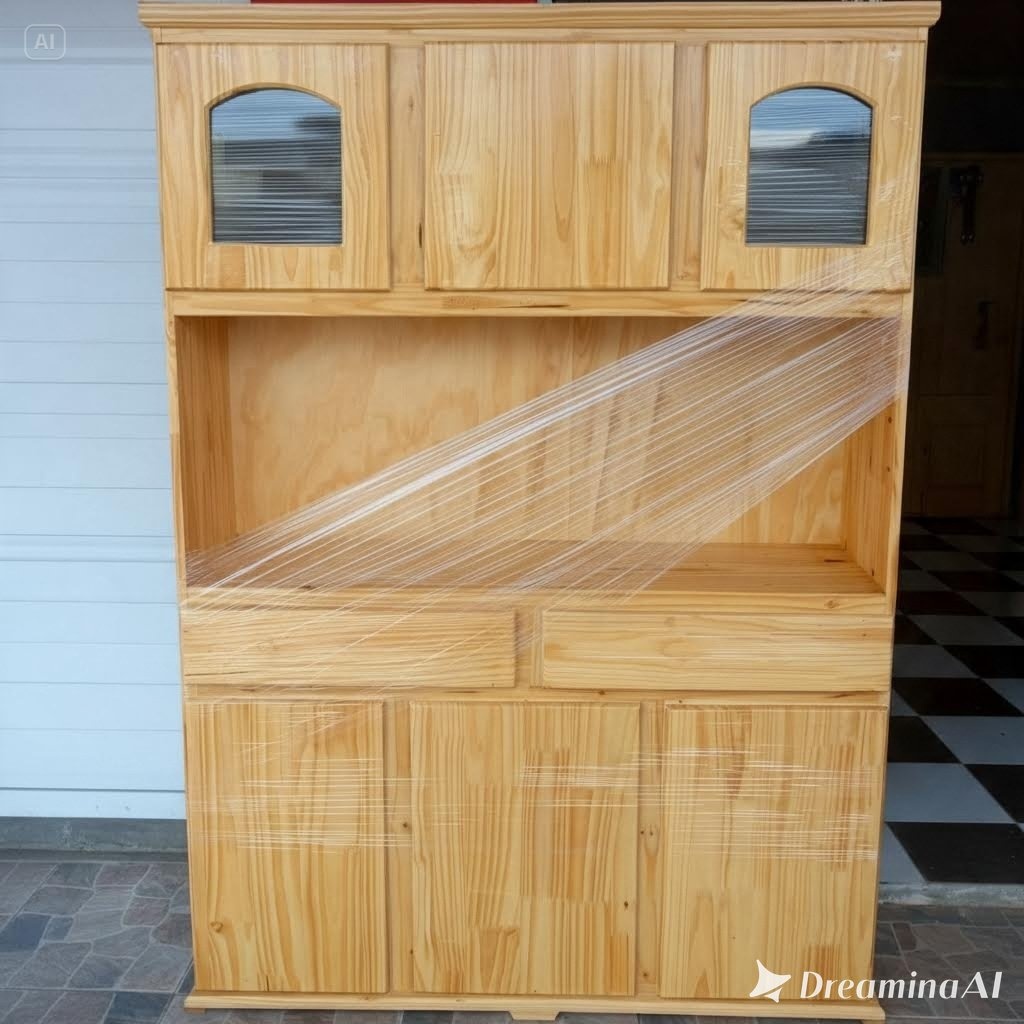
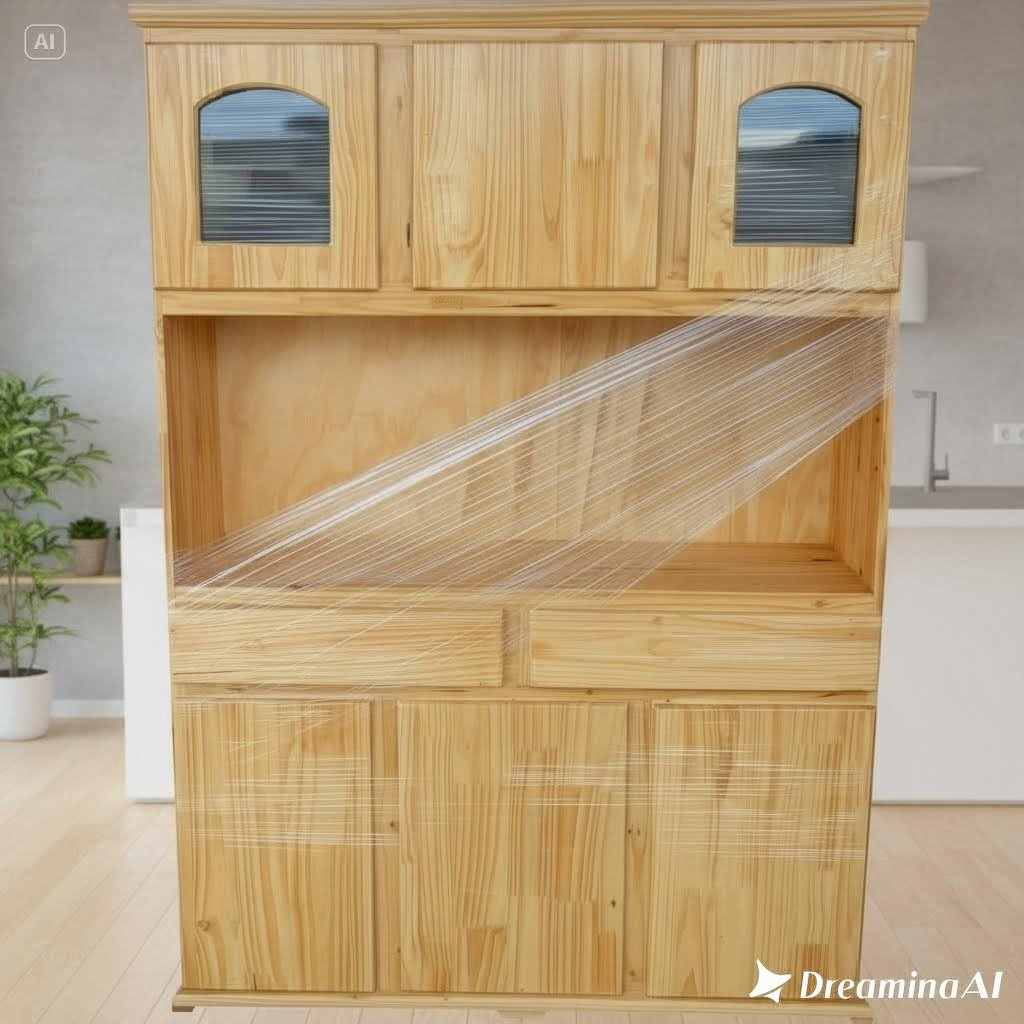
oficina

diff --git a/oficina-hogar.html b/oficina-hogar.html
@@ -1,5 +1,185 @@
-<!DOCTYPE html><html lang="es"><head><meta charset="UTF-8"><meta name="viewport" content="width=device-width, initial-scale=1"><title>Oficina y hogar | Servi Muebles</title><link rel="preconnect" href="https://fonts.googleapis.com"><link href="https://fonts.googleapis.com/css2?family=DM+Sans:wght@400;500;600;700&family=Playfair+Display:wght@600;700&display=swap" rel="stylesheet"><link rel="stylesheet" href="styles.css"></head><body><header class="header"><a href="index.html" class="brand"><img src="img/logo.svg" alt="Servi Muebles"></a><button class="burger" aria-label="Abrir menú" aria-expanded="false"><span></span><span></span><span></span></button><nav class="nav"><a href="index.html">Inicio</a><a class="on" href="categorias.html">Categorías</a><a href="ofertas.html">Ofertas</a><a href="nosotros.html">Nosotros</a><a href="contacto.html">Contacto</a><a href="faq.html">Preguntas</a></nav></header><main><section class="page-hero"><span class="crumb">Colección 03 · Categorías</span><h1>Oficina y hogar</h1><p>Diseño que te ayuda a concentrarte, crear y disfrutar tu tiempo en casa.</p></section><section class="sec"><div class="page-content"><div class="detail-grid"><article class="detail-card reveal" data-name="Escritorios"><img src="https://images.unsplash.com/photo-1497366811353-6870744d04b2?auto=format&fit=crop&w=1000&q=85" alt="Escritorio de oficina"><div><h3>Escritorios</h3><p>Superficies amplias para que las ideas tengan lugar.</p><button class="btn ask" type="button">Consultar <span>↗</span></button>
-              </div></article><article class="detail-card reveal" data-name="Sillas y confort"><img src="https://images.unsplash.com/photo-1556761175-b413da4baf72?auto=format&fit=crop&w=1000&q=85" alt="Sillas para oficina"><div><h3>Sillas y confort</h3><p>Ergonomía y estilo para acompañar tus jornadas.</p><button class="btn ask" type="button">Consultar <span>↗</span></button>
-              </div></article><article class="detail-card reveal" data-name="Bibliotecas y guardado"><img src="https://images.unsplash.com/photo-1593476550610-87baa860004a?auto=format&fit=crop&w=1000&q=85" alt="Biblioteca en hogar"><div><h3>Bibliotecas y guardado</h3><p>Orden visible para tus objetos, libros y proyectos.</p><button class="btn ask" type="button">Consultar <span>↗</span></button>
-              </div></article></div><div class="center"><a class="btn" href="contacto.html">Consultar medidas y precios <span>↗</span></a></div></div></section></main><footer class="footer"><div class="fgrid"><div><img class="footer-logo" src="img/logo.svg" alt="Servi Muebles"><p>Diseño, calidad y calidez para cada ambiente.</p></div><div><h4>Explorá</h4><a href="index.html">Inicio</a><a href="categorias.html">Categorías</a><a href="ofertas.html">Ofertas</a></div><div><h4>Ayuda</h4><a href="contacto.html">Contacto</a><a href="faq.html">Preguntas frecuentes</a></div><div><h4>Contacto</h4><p>+54 362 455-3052</p><p>Resistencia, Chaco</p></div></div><p class="copy">© 2026 Servi Muebles. Todos los derechos reservados.</p></footer><a class="wa" id="wa" target="_blank" rel="noopener" aria-label="Escribinos por WhatsApp" data-tip="¿Hablamos?"><svg viewBox="0 0 24 24" width="29" height="29" fill="none" aria-hidden="true"><path fill="currentColor" d="M12 2a10 10 0 0 0-8.6 15.1L2 22l5-1.3A10 10 0 1 0 12 2zm5.2 14.2c-.2.6-1.3 1.2-1.8 1.2-.5.1-1 .2-3.3-.7-2.8-1.1-4.6-4-4.7-4.2-.1-.2-1.1-1.5-1.1-2.8s.7-2 1-2.2c.2-.3.5-.3.7-.3h.5c.2 0 .4 0 .6.5l.8 2c.1.2.1.3 0 .5l-.3.4-.4.5c-.1.1-.3.3-.1.6.2.3.8 1.3 1.7 2.1 1.2 1 2.1 1.3 2.4 1.5.3.1.5.1.6-.1l.9-1.1c.2-.3.4-.2.6-.1l1.9.9c.3.1.5.2.5.3.1.2.1.8-.1 1.4z"/></svg></a><button class="top" aria-label="Volver arriba">↑</button><script src="script.js"></script></body></html>
-
+<!doctype html>
+<html lang="es">
+  <head>
+    <meta charset="UTF-8" />
+    <meta name="viewport" content="width=device-width, initial-scale=1" />
+    <title>Oficina y hogar | Servi Muebles</title>
+    <link rel="preconnect" href="https://fonts.googleapis.com" />
+    <link
+      href="https://fonts.googleapis.com/css2?family=DM+Sans:wght@400;500;600;700&family=Playfair+Display:wght@600;700&display=swap"
+      rel="stylesheet"
+    />
+    <link rel="stylesheet" href="styles.css" />
+  </head>
+  <body>
+    <header class="header">
+      <a href="index.html" class="brand"
+        ><img src="img/logo.svg" alt="Servi Muebles" /></a
+      ><button class="burger" aria-label="Abrir menú" aria-expanded="false">
+        <span></span><span></span><span></span>
+      </button>
+      <nav class="nav">
+        <a href="index.html">Inicio</a
+        ><a class="on" href="categorias.html">Categorías</a
+        ><a href="ofertas.html">Ofertas</a><a href="nosotros.html">Nosotros</a
+        ><a href="contacto.html">Contacto</a><a href="faq.html">Preguntas</a>
+      </nav>
+    </header>
+    <main>
+      <section class="page-hero">
+        <span class="crumb">Colección 03 · Categorías</span>
+        <h1>Oficina y hogar</h1>
+        <p>
+          Diseño que te ayuda a concentrarte, crear y disfrutar tu tiempo en
+          casa.
+        </p>
+      </section>
+      <section class="sec">
+        <div class="page-content">
+          <div class="detail-grid">
+            <article class="detail-card reveal" data-name="Mueble Multiuso Compacto">
+              <img
+                src="./img/oficina/oficinaMultiuso.jpeg"
+                alt="Mueble Multiuso Compacto"
+              />
+              <div>
+                <h3>Mueble Multiuso Compacto</h3>
+                <p>Práctico, funcional y versátil. Su tamaño permite aprovechar al máximo los espacios, ofreciendo una solución de almacenamiento para organizar documentos, útiles, accesorios y otros objetos. ¡Perfecto para mantener todo en orden sin ocupar demasiado lugar.</p>
+                <button class="btn ask" type="button">
+                  Consultar <span>↗</span>
+                </button>
+              </div>
+            </article>
+            <article class="detail-card reveal" data-name="Mueble Multiuso Con Cajones">
+              <img
+                src="./img/oficina/oficinaMultiuso2.jpeg"
+                alt="Mueble Multiuso Con Cajones"
+              />
+              <div>
+                <h3>Mueble Multiuso Con Cajones</h3>
+                <p>Práctico, espacioso y funcional. Cuenta con varios cajones que permiten organizar documentos, accesorios y todo tipo de objetos. Su tamaño mediano ofrece mayor capacidad de almacenamiento, combinando comodidad, orden y versatilidad para cualquier ambiente.</p>
+                <button class="btn ask" type="button">
+                  Consultar <span>↗</span>
+                </button>
+              </div>
+            </article>
+            <article
+              class="detail-card reveal"
+              data-name="Muebe Multiuso Con Puertas"
+            >
+              <img
+                src="./img/oficina/oficinaMultiuso3.jpeg"
+                alt="Mueble Multiuso Con Puertas"
+              />
+              <div>
+                <h3>Mueble Multiuso Con Puertas</h3>
+                <p>Práctico, amplio y funcional. Cuenta con varias puertas que permiten guardar y organizar documentos, artículos de uso diario y otros objetos, manteniendo todo protegido y fuera de la vista. Una excelente opción para aprovechar el espacio y mantener cualquier ambiente ordenado.</p>
+                <button class="btn ask" type="button">
+                  Consultar <span>↗</span>
+                </button>
+              </div>
+            </article>
+            <article
+              class="detail-card reveal"
+              data-name="Muebe Multiuso Grande"
+            >
+              <img
+                src="./img/oficina/oficinaMultiuso4.jpeg"
+                alt="Mueble Multiuso Grande"
+              />
+              <div>
+                <h3>Mueble Multiuso Grande</h3>
+                <p>Amplio, práctico y versátil, ideal para el hogar o la oficina. Cuenta con múltiples cajones y puertas para organizar y guardar todo tipo de objetos, además de un espacio destinado para colocar televisores y dispositivos electrónicos. Su diseño funcional ofrece gran capacidad de almacenamiento, combinando organización, comodidad y estilo en un solo mueble.</p>
+                <button class="btn ask" type="button">
+                  Consultar <span>↗</span>
+                </button>
+              </div>
+            </article>
+            <article
+              class="detail-card reveal"
+              data-name="Rack Multiuso Para TV"
+            >
+              <img
+                src="./img/oficina/oficinaRack.jpeg"
+                alt="Rack Multiuso Para TV"
+              />
+              <div>
+                <h3>Rack Multiuso Para TV</h3>
+                <p>Moderno, práctico y funcional, ideal para darle estilo y organización a tu living o dormitorio. Cuenta con espacios de almacenamiento para colocar dispositivos electrónicos, accesorios y objetos decorativos. Su diseño versátil permite aprovechar mejor el espacio, combinando comodidad, orden y elegancia para tu hogar.</p>
+                <button class="btn ask" type="button">
+                  Consultar <span>↗</span>
+                </button>
+              </div>
+            </article>
+            <article
+              class="detail-card reveal"
+              data-name="Rack Multiuso Para TV"
+            >
+              <img
+                src="./img/oficina/oficinaRack2.jpeg"
+                alt="Rack Multiuso Para TV"
+              />
+              <div>
+                <h3>Rack Multiuso Para TV</h3>
+                <p>Dale un toque moderno y funcional a tus espacios. Ideal para el living o dormitorio, este rack para TV combina diseño y practicidad, ofreciendo espacio para tu televisor, dispositivos electrónicos y elementos decorativos. Una excelente opción para mantener todo organizado y disfrutar de un ambiente cómodo y atractivo.</p>
+                <button class="btn ask" type="button">
+                  Consultar <span>↗</span>
+                </button>
+              </div>
+            </article>
+            
+          </div>
+          <div class="center">
+            <a class="btn" href="contacto.html"
+              >Consultar medidas y precios <span>↗</span></a
+            >
+          </div>
+        </div>
+      </section>
+    </main>
+    <footer class="footer">
+      <div class="fgrid">
+        <div>
+          <img class="footer-logo" src="img/logo.svg" alt="Servi Muebles" />
+          <p>Diseño, calidad y calidez para cada ambiente.</p>
+        </div>
+        <div>
+          <h4>Explorá</h4>
+          <a href="index.html">Inicio</a><a href="categorias.html">Categorías</a
+          ><a href="ofertas.html">Ofertas</a>
+        </div>
+        <div>
+          <h4>Ayuda</h4>
+          <a href="contacto.html">Contacto</a
+          ><a href="faq.html">Preguntas frecuentes</a>
+        </div>
+        <div>
+          <h4>Contacto</h4>
+          <p>+54 362 455-3052</p>
+          <p>Resistencia, Chaco</p>
+        </div>
+      </div>
+      <p class="copy">© 2026 Servi Muebles. Todos los derechos reservados.</p>
+    </footer>
+    <a
+      class="wa"
+      id="wa"
+      target="_blank"
+      rel="noopener"
+      aria-label="Escribinos por WhatsApp"
+      data-tip="¿Hablamos?"
+      ><svg
+        viewBox="0 0 24 24"
+        width="29"
+        height="29"
+        fill="none"
+        aria-hidden="true"
+      >
+        <path
+          fill="currentColor"
+          d="M12 2a10 10 0 0 0-8.6 15.1L2 22l5-1.3A10 10 0 1 0 12 2zm5.2 14.2c-.2.6-1.3 1.2-1.8 1.2-.5.1-1 .2-3.3-.7-2.8-1.1-4.6-4-4.7-4.2-.1-.2-1.1-1.5-1.1-2.8s.7-2 1-2.2c.2-.3.5-.3.7-.3h.5c.2 0 .4 0 .6.5l.8 2c.1.2.1.3 0 .5l-.3.4-.4.5c-.1.1-.3.3-.1.6.2.3.8 1.3 1.7 2.1 1.2 1 2.1 1.3 2.4 1.5.3.1.5.1.6-.1l.9-1.1c.2-.3.4-.2.6-.1l1.9.9c.3.1.5.2.5.3.1.2.1.8-.1 1.4z"
+        /></svg></a
+    ><button class="top" aria-label="Volver arriba">↑</button>
+    <script src="script.js"></script>
+  </body>
+</html>
